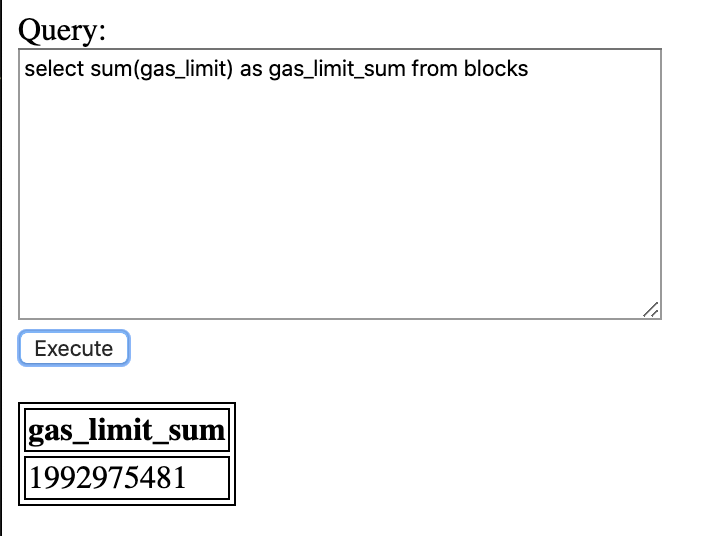
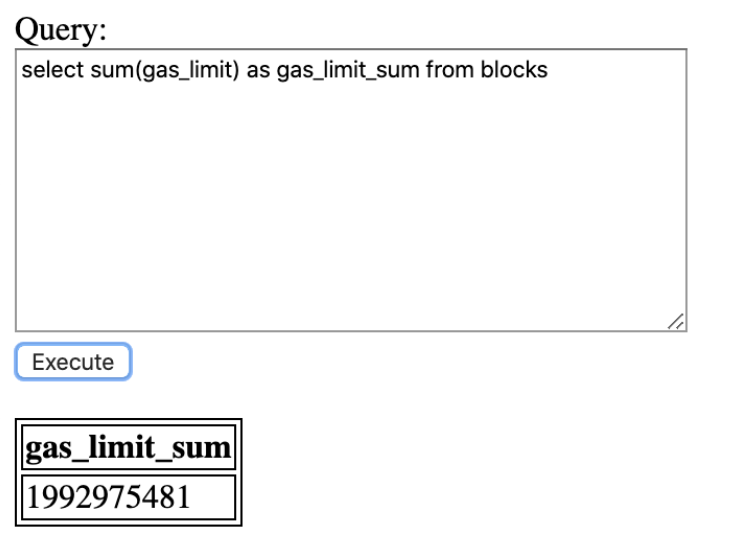
working on README.md

Changed region(s): [[0.0, 0.0299, 0.9499, 0.7164], [0.0, 0.7463, 0.337, 0.9851]]

diff --git a/README.md b/README.md
@@ -21,11 +21,11 @@ TABLE blocks (
 ```
 ## Project frontend
 
-Simple query
-<img src="./screenshots/simple_query.png"/>
+#### Simple query
+<img src="./screenshots/simple_query.png" width="400"/>
 
-Aggregate query
-<img src="./screenshots/aggregate_query.png"/>
+#### Aggregate query
+<img src="./screenshots/aggregate_query.png" width="400"/>
 
 #### How To Run This Project
 
